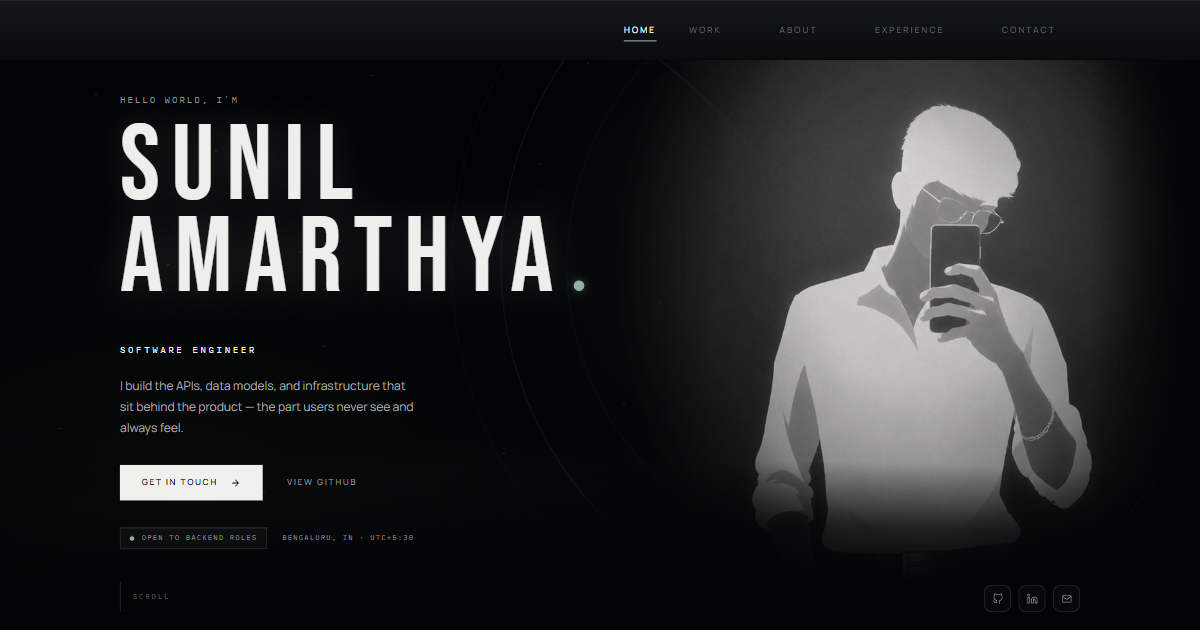
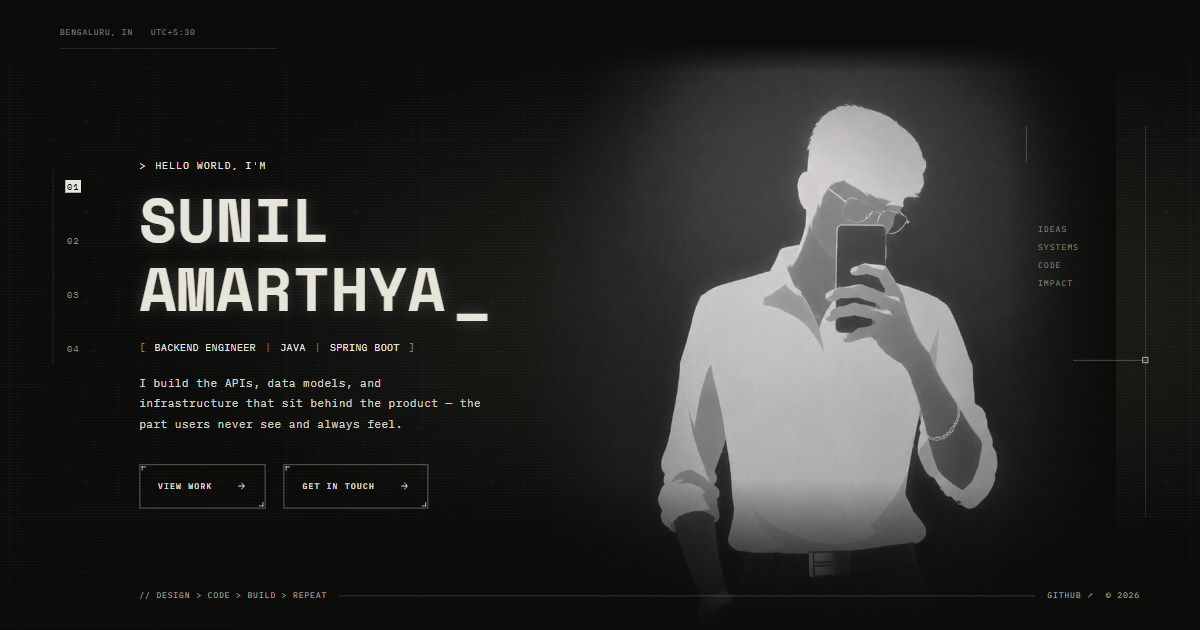
clean: removed unwanted stuff

diff --git a/src/components/layout/NavBar.jsx b/src/components/layout/NavBar.jsx
@@ -54,17 +54,10 @@ export default function NavBar({ activeLink = 'HOME', ready = true }) {
       >
         <div className="mx-auto flex max-w-[1800px] items-start justify-between gap-4 px-6 py-6 sm:px-10 lg:px-20 lg:py-8">
           <div>
-            <a href="#home" aria-label={`${SITE.name} — home`} className="inline-flex min-h-11 items-center font-display text-2xl font-bold tracking-tight">
-              {SITE.monogram}
-            </a>
             <p className="mt-1 hidden border-b border-paper/20 pb-3 font-mono text-[0.65rem] uppercase tracking-[0.12em] text-faint sm:block lg:min-w-72">
               {SITE.location} <span className="ml-4">{SITE.timezone}</span>
             </p>
           </div>
-          <p className="mt-3 hidden items-center gap-3 text-[0.65rem] uppercase tracking-[0.08em] text-paper sm:flex">
-            <span aria-hidden="true" className={`h-2 w-2 rounded-full ${SITE.available ? 'bg-signal' : 'bg-faint'}`} />
-            {SITE.available ? 'Online // Available for opportunities' : 'Currently unavailable'}
-          </p>
 
           {/* Mobile trigger — replaces the row that used to overflow the viewport */}
           <button

diff --git a/src/config/site.js b/src/config/site.js
@@ -2,7 +2,6 @@
 // Edit here; every component reads from this file.
 export const SITE = {
   name: 'Sunil Amarthya',
-  monogram: 'SA.',
   firstName: 'SUNIL',
   lastName: 'AMARTHYA',
   expertise: ['BACKEND ENGINEER', 'JAVA', 'SPRING BOOT'],
@@ -13,9 +12,6 @@ export const SITE = {
   // TODO: confirm these two before shipping.
   location: 'Bengaluru, IN',
   timezone: 'UTC+5:30',
-
-  available: true,
-  availableLabel: 'Open to backend roles',
 
   email: 'sunil.amarthya.d@gmail.com',
   github: 'https://github.com/sunilamarthya',
